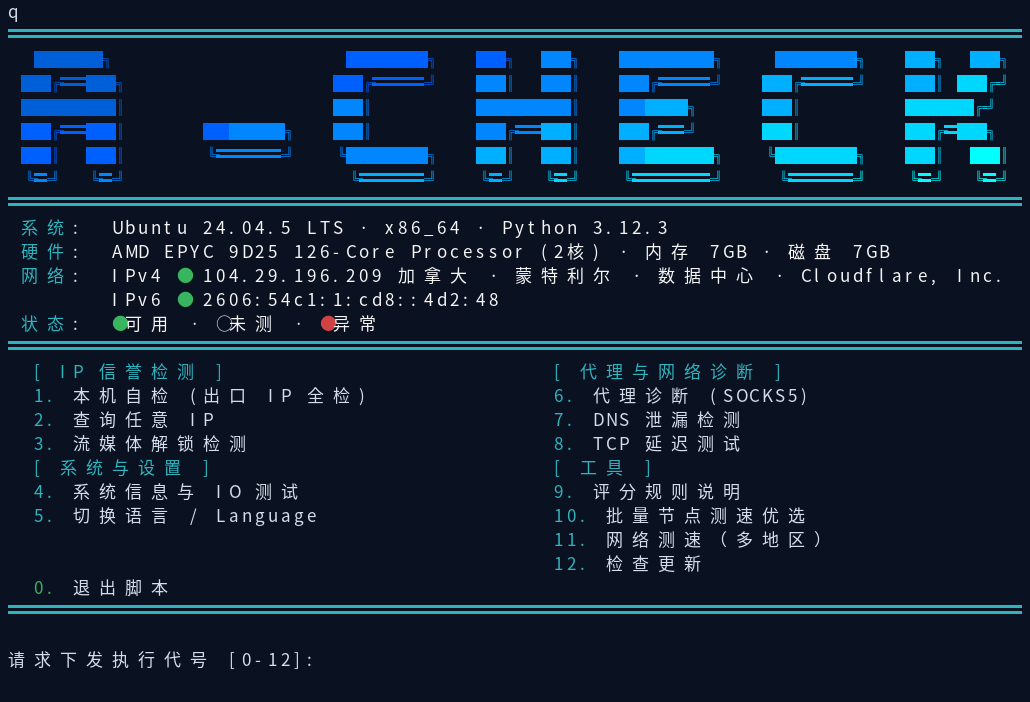
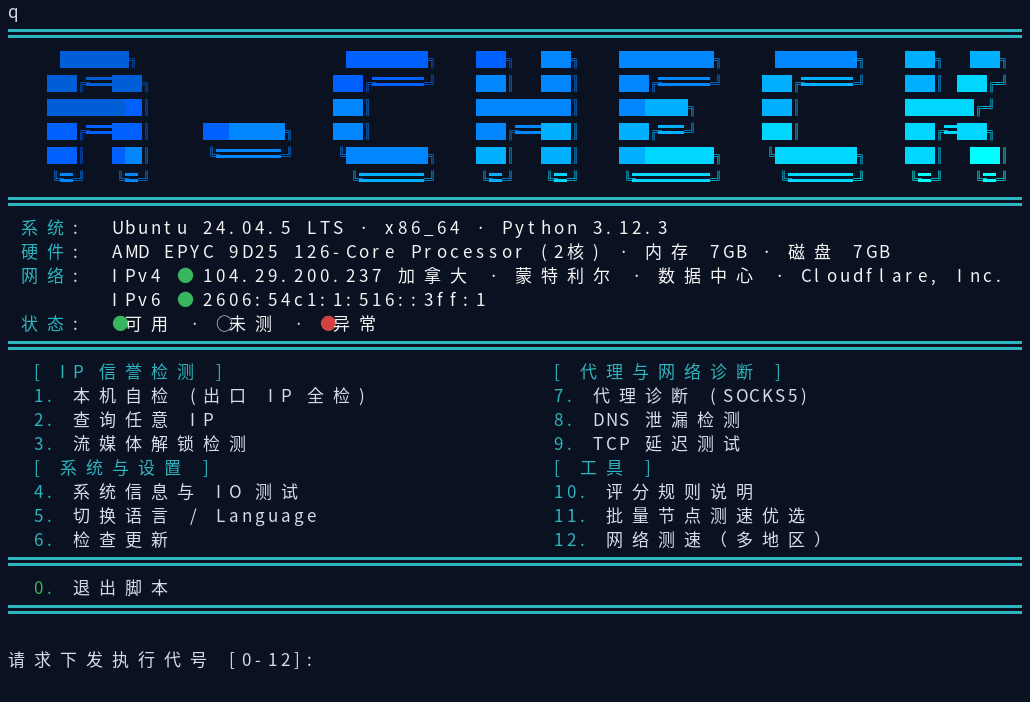
update

diff --git a/acheck.py b/acheck.py
@@ -1,6 +1,6 @@
 #!/usr/bin/env python3
 """
-IP 信誉检测 v4.12.7 — 全量修复与并发优化公开版 (零 API Key 依赖)
+IP 信誉检测 v4.12.8 — 全量修复与并发优化公开版 (零 API Key 依赖)
 
 被动模式: 仅凭 IP 地址做公开情报查询，不发起任何指向该 IP 的主动连接。
   适用: 评估尚未启用的候选 IP (如 AWS EIP)。
@@ -55,7 +55,7 @@ for _s in (sys.stdout, sys.stderr, sys.stdin):
     except Exception:
         pass
 
-VERSION = "4.12.7"
+VERSION = "4.12.8"
 
 
 def _init_console():
@@ -1968,7 +1968,7 @@ class IPInfo(Provider):
 
     def check(self, ip):
         ok, raw = http_get(f"https://ipinfo.io/{ip}/json",
-                           headers={"User-Agent": "A-Check/4.12.7 (+https://github.com/alariclin/A-Check)"},
+                           headers={"User-Agent": "A-Check/4.12.8 (+https://github.com/alariclin/A-Check)"},
                            use_cache=False)
         if not ok:
             return {"ok": False, "err": raw}
@@ -2300,7 +2300,7 @@ def _build_unified_profile(s):
 
 SCORING_RULES = {
     "zh": """
-评分规则 (v4.12.7 免 Key 公开版):
+评分规则 (v4.12.8 免 Key 公开版):
   [威胁行为 0-100] 实际恶意行为证据
     StopForumSpam 垃圾举报命中 (每次+3, 上限25)
     SANS ISC 蜜罐攻击记录 (5 + count//5, 上限25)
@@ -2322,7 +2322,7 @@ SCORING_RULES = {
   [纯净度] = 100 - 综合 (本工具自有换算，非第三方评分)
 """,
     "zh-TW": """
-評分規則 (v4.12.7 免 Key 公開版):
+評分規則 (v4.12.8 免 Key 公開版):
   [威脅行為 0-100] 實際惡意行為證據
     StopForumSpam 垃圾舉報命中 (每次+3, 上限25)
     SANS ISC 蜜罐攻擊記錄 (5 + count//5, 上限25)
@@ -2344,7 +2344,7 @@ SCORING_RULES = {
   [純淨度] = 100 - 綜合 (本工具自有換算，非第三方評分)
 """,
     "en": """
-Scoring rules (v4.12.7 Keyless Public Edition):
+Scoring rules (v4.12.8 Keyless Public Edition):
   [Threat 0-100] Evidence of malicious behavior
     StopForumSpam abuse hits (+3 each, max 25)
     SANS ISC honeypot attacks (5 + count//5, max 25)
@@ -2366,7 +2366,7 @@ Scoring rules (v4.12.7 Keyless Public Edition):
   [Purity] = 100 - Combined (own conversion, not third-party)
 """,
     "ja": """
-スコアリングルール (v4.12.7 キー不要公開版):
+スコアリングルール (v4.12.8 キー不要公開版):
   [脅威行為 0-100] 悪意ある活動の証拠
     StopForumSpam スパム報告 (+3/件, 最大25)
     SANS ISC ハニーポット攻撃記録 (5 + count//5, 最大25)
@@ -2388,7 +2388,7 @@ Scoring rules (v4.12.7 Keyless Public Edition):
   [純度] = 100 - 総合 (独自換算)
 """,
     "ru": """
-Правила оценки (v4.12.7 Публичная версия без ключей):
+Правила оценки (v4.12.8 Публичная версия без ключей):
   [Угрозы 0-100] Доказательства вредоносной активности
     StopForumSpam жалобы (+3 за каждую, макс. 25)
     SANS ISC атаки (5 + count//5, макс. 25)
@@ -2410,7 +2410,7 @@ Scoring rules (v4.12.7 Keyless Public Edition):
   [Чистота] = 100 - Итого
 """,
     "fa": """
-قوانین امتیازدهی (نسخه عمومی بدون کلید v4.12.7):
+قوانین امتیازدهی (نسخه عمومی بدون کلید v4.12.8):
   [رفتار تهدید 0-100] شواهد فعالیت مخرب
     StopForumSpam گزارش اسپم (+3 هر مورد، حداکثر 25)
     SANS ISC حملات ثبتشده (5 + count//5، حداکثر 25)
@@ -3421,7 +3421,7 @@ def get_egress_ip():
     ]
     for url in sources:
         try:
-            _ua = {"User-Agent": "A-Check/4.12.7 (+https://github.com/alariclin/A-Check)"} if "ipinfo.io" in url else {"User-Agent": UA_BROWSER}
+            _ua = {"User-Agent": "A-Check/4.12.8 (+https://github.com/alariclin/A-Check)"} if "ipinfo.io" in url else {"User-Agent": UA_BROWSER}
             req = urllib.request.Request(url, headers=_ua)
             with urllib.request.urlopen(req, timeout=6) as r:
                 raw = r.read(512).decode("utf-8", errors="replace").strip()
@@ -5323,9 +5323,20 @@ def _logo_spread(lines, target=76):
     return out
 
 
+def _logo_shift_a(lines, n=2):
+    """首字母 A 单独右移 n 列 (从 A 后的间隔里扣, 总宽不变)。"""
+    out = []
+    for l in lines:
+        if len(l) > 8 + n:
+            out.append(" " * n + l[:8] + l[8 + n:])
+        else:
+            out.append(l)
+    return out
+
+
 def _logo_render():
     """给 Logo 上蓝->青对角渐变色 (256 色), 无色环境返回原文。"""
-    lines = _logo_spread(_LOGO_LINES)
+    lines = _logo_shift_a(_logo_spread(_LOGO_LINES))
     if not _use_color():
         return lines
     out = []
@@ -5512,24 +5523,24 @@ def print_menu():
     colw = 40
     rows = [
         (_c(C.cyan, T("grp_ip")), _c(C.cyan, T("grp_net"))),
-        (_menu_item(1, T("m_self")), _menu_item(6, T("m_proxy"))),
-        (_menu_item(2, T("m_query")), _menu_item(7, T("m_dnsleak"))),
-        (_menu_item(3, T("m_stream")), _menu_item(8, T("m_tcpping"))),
+        (_menu_item(1, T("m_self")), _menu_item(7, T("m_proxy"))),
+        (_menu_item(2, T("m_query")), _menu_item(8, T("m_dnsleak"))),
+        (_menu_item(3, T("m_stream")), _menu_item(9, T("m_tcpping"))),
         (_c(C.cyan, T("grp_sys")), _c(C.cyan, T("grp_tools"))),
-        (_menu_item(4, T("m_sysinfo")), _menu_item(9, T("m_explain"))),
-        (_menu_item(5, T("m_lang")), _menu_item(10, T("m_batch"))),
-        ("", _menu_item(11, T("m_speed"))),
-        ("", _menu_item(12, T("m_update"))),
+        (_menu_item(4, T("m_sysinfo")), _menu_item(10, T("m_explain"))),
+        (_menu_item(5, T("m_lang")), _menu_item(11, T("m_batch"))),
+        (_menu_item(6, T("m_update")), _menu_item(12, T("m_speed"))),
     ]
     for left, right in rows:
         print("  " + _pad(left, colw) + right)
+    print(_c(C.cyan, "═" * 78))
     print("  " + _c(C.green, "0.") + " " + T("m_quit"))
     print(_c(C.cyan, "═" * 78))
     print()
 
 
 def check_update():
-    """菜单 12: 对比 GitHub 最新 Release 与本地版本。"""
+    """菜单 6: 对比 GitHub 最新 Release 与本地版本。"""
     try:
         req = urllib.request.Request(
             "https://api.github.com/repos/alariclin/A-Check/releases/latest",
@@ -5873,23 +5884,23 @@ def main():
                 si = get_system_info()
                 io_res = disk_io_test()
                 print_system_info(si, io_res)
-            elif choice == "9":
-                print(SCORING_RULES.get(LANG, SCORING_RULES["en"]))
             elif choice == "10":
-                print()
-                run_batch_nodes()
+                print(SCORING_RULES.get(LANG, SCORING_RULES["en"]))
             elif choice == "11":
                 print()
-                run_speed_only()
+                run_batch_nodes()
             elif choice == "12":
                 print()
+                run_speed_only()
+            elif choice == "6":
+                print()
                 check_update()
-            elif choice == "7":
+            elif choice == "8":
                 print()
                 run_dnsleak_only()
-            elif choice == "8":
+            elif choice == "9":
                 run_tcpping_only()
-            elif choice == "6":
+            elif choice == "7":
                 # 代理诊断: 输入 host:port [+认证]
                 while True:
                     pinp = input(T("prompt_proxy")).strip()

diff --git a/README.fa.md b/README.fa.md
@@ -5,7 +5,7 @@
 <p align="center">اعتبار IP · عیبیابی پروکسی · انتخاب دستهای گرهها — ابزار تکفایلی پایتون</p>
 
 <p align="center">
-  <img src="https://img.shields.io/badge/release-v4.12.7-1f883d" alt="release">
+  <img src="https://img.shields.io/badge/release-v4.12.8-1f883d" alt="release">
   <img src="https://img.shields.io/badge/python-3.8%2B-3776ab" alt="python">
   <img src="https://img.shields.io/badge/platform-macOS%20%7C%20Windows%20%7C%20Linux-8250df" alt="platform">
   <img src="https://img.shields.io/badge/license-MIT-d7781e" alt="license">
@@ -56,7 +56,7 @@ python3 acheck.py 8.8.8.8     # استعلام هر IP عمومی
 python3 acheck.py --active    # خودآزمایی
 ```
 
-بستههای macOS / Windows / Linux در صفحه [Releases](https://github.com/alariclin/A-Check/releases) هستند (`A-Check-v4.12.7-mac.zip` / `A-Check-v4.12.7-windows.zip` / `A-Check-v4.12.7-linux.zip`) — از حالت فشرده خارج کنید و `run.command` / `run.bat` / `run.sh` را اجرا کنید.
+بستههای macOS / Windows / Linux در صفحه [Releases](https://github.com/alariclin/A-Check/releases) هستند (`A-Check-v4.12.8-mac.zip` / `A-Check-v4.12.8-windows.zip` / `A-Check-v4.12.8-linux.zip`) — از حالت فشرده خارج کنید و `run.command` / `run.bat` / `run.sh` را اجرا کنید.
 
 ## روش استفاده
 

diff --git a/README.ru.md b/README.ru.md
@@ -5,7 +5,7 @@
 <p align="center">Репутация IP · диагностика прокси · пакетный выбор узлов — однофайловый чекер на Python</p>
 
 <p align="center">
-  <img src="https://img.shields.io/badge/release-v4.12.7-1f883d" alt="release">
+  <img src="https://img.shields.io/badge/release-v4.12.8-1f883d" alt="release">
   <img src="https://img.shields.io/badge/python-3.8%2B-3776ab" alt="python">
   <img src="https://img.shields.io/badge/platform-macOS%20%7C%20Windows%20%7C%20Linux-8250df" alt="platform">
   <img src="https://img.shields.io/badge/license-MIT-d7781e" alt="license">
@@ -56,7 +56,7 @@ python3 acheck.py 8.8.8.8     # запрос любого публичного I
 python3 acheck.py --active    # самопроверка
 ```
 
-Пакеты для macOS / Windows / Linux — на странице [Releases](https://github.com/alariclin/A-Check/releases) (`A-Check-v4.12.7-mac.zip` / `A-Check-v4.12.7-windows.zip` / `A-Check-v4.12.7-linux.zip`): распаковать и запустить `run.command` / `run.bat` / `run.sh`.
+Пакеты для macOS / Windows / Linux — на странице [Releases](https://github.com/alariclin/A-Check/releases) (`A-Check-v4.12.8-mac.zip` / `A-Check-v4.12.8-windows.zip` / `A-Check-v4.12.8-linux.zip`): распаковать и запустить `run.command` / `run.bat` / `run.sh`.
 
 ## Использование
 

diff --git a/README.ja.md b/README.ja.md
@@ -5,7 +5,7 @@
 <p align="center">IPレピュテーション · プロキシ診断 · ノード一括選別 — 単一ファイルのPythonチェッカー</p>
 
 <p align="center">
-  <img src="https://img.shields.io/badge/release-v4.12.7-1f883d" alt="release">
+  <img src="https://img.shields.io/badge/release-v4.12.8-1f883d" alt="release">
   <img src="https://img.shields.io/badge/python-3.8%2B-3776ab" alt="python">
   <img src="https://img.shields.io/badge/platform-macOS%20%7C%20Windows%20%7C%20Linux-8250df" alt="platform">
   <img src="https://img.shields.io/badge/license-MIT-d7781e" alt="license">
@@ -56,7 +56,7 @@ python3 acheck.py 8.8.8.8     # 任意のIPを照会
 python3 acheck.py --active    # セルフチェック
 ```
 
-macOS / Windows / Linux 用パッケージは [Releases](https://github.com/alariclin/A-Check/releases) ページ（`A-Check-v4.12.7-mac.zip` / `A-Check-v4.12.7-windows.zip` / `A-Check-v4.12.7-linux.zip`）から。解凍して `run.command` / `run.bat` / `run.sh` を実行してください。
+macOS / Windows / Linux 用パッケージは [Releases](https://github.com/alariclin/A-Check/releases) ページ（`A-Check-v4.12.8-mac.zip` / `A-Check-v4.12.8-windows.zip` / `A-Check-v4.12.8-linux.zip`）から。解凍して `run.command` / `run.bat` / `run.sh` を実行してください。
 
 ## 使い方
 

diff --git a/README.zh-TW.md b/README.zh-TW.md
@@ -5,7 +5,7 @@
 <p align="center">IP 純淨度 · 代理診斷 · 批量節點優選 — 純 Python 單文件檢測工具</p>
 
 <p align="center">
-  <img src="https://img.shields.io/badge/release-v4.12.7-1f883d" alt="release">
+  <img src="https://img.shields.io/badge/release-v4.12.8-1f883d" alt="release">
   <img src="https://img.shields.io/badge/python-3.8%2B-3776ab" alt="python">
   <img src="https://img.shields.io/badge/platform-macOS%20%7C%20Windows%20%7C%20Linux-8250df" alt="platform">
   <img src="https://img.shields.io/badge/license-MIT-d7781e" alt="license">
@@ -56,7 +56,7 @@ python3 acheck.py 8.8.8.8     # 查任意公網 IP
 python3 acheck.py --active    # 本機自檢
 ```
 
-macOS / Windows / Linux 安裝包在 [Releases](https://github.com/alariclin/A-Check/releases) 頁下載（`A-Check-v4.12.7-mac.zip` / `A-Check-v4.12.7-windows.zip` / `A-Check-v4.12.7-linux.zip`），解壓後運行 `run.command` / `run.bat` / `run.sh` 即可。
+macOS / Windows / Linux 安裝包在 [Releases](https://github.com/alariclin/A-Check/releases) 頁下載（`A-Check-v4.12.8-mac.zip` / `A-Check-v4.12.8-windows.zip` / `A-Check-v4.12.8-linux.zip`），解壓後運行 `run.command` / `run.bat` / `run.sh` 即可。
 
 ## 使用方法
 

diff --git a/README.zh.md b/README.zh.md
@@ -5,7 +5,7 @@
 <p align="center">IP 纯净度 · 代理诊断 · 批量节点优选 — 纯 Python 单文件检测工具</p>
 
 <p align="center">
-  <img src="https://img.shields.io/badge/release-v4.12.7-1f883d" alt="release">
+  <img src="https://img.shields.io/badge/release-v4.12.8-1f883d" alt="release">
   <img src="https://img.shields.io/badge/python-3.8%2B-3776ab" alt="python">
   <img src="https://img.shields.io/badge/platform-macOS%20%7C%20Windows%20%7C%20Linux-8250df" alt="platform">
   <img src="https://img.shields.io/badge/license-MIT-d7781e" alt="license">
@@ -56,7 +56,7 @@ python3 acheck.py 8.8.8.8     # 查任意公网 IP
 python3 acheck.py --active    # 本机自检
 ```
 
-macOS / Windows / Linux 安装包在 [Releases](https://github.com/alariclin/A-Check/releases) 页下载（`A-Check-v4.12.7-mac.zip` / `A-Check-v4.12.7-windows.zip` / `A-Check-v4.12.7-linux.zip`），解压后运行 `run.command` / `run.bat` / `run.sh` 即可。
+macOS / Windows / Linux 安装包在 [Releases](https://github.com/alariclin/A-Check/releases) 页下载（`A-Check-v4.12.8-mac.zip` / `A-Check-v4.12.8-windows.zip` / `A-Check-v4.12.8-linux.zip`），解压后运行 `run.command` / `run.bat` / `run.sh` 即可。
 
 ## 使用方法
 

diff --git a/README.en.md b/README.en.md
@@ -5,7 +5,7 @@
 <p align="center">IP reputation · proxy diagnostics · batch node picking — a single-file Python checker</p>
 
 <p align="center">
-  <img src="https://img.shields.io/badge/release-v4.12.7-1f883d" alt="release">
+  <img src="https://img.shields.io/badge/release-v4.12.8-1f883d" alt="release">
   <img src="https://img.shields.io/badge/python-3.8%2B-3776ab" alt="python">
   <img src="https://img.shields.io/badge/platform-macOS%20%7C%20Windows%20%7C%20Linux-8250df" alt="platform">
   <img src="https://img.shields.io/badge/license-MIT-d7781e" alt="license">
@@ -56,7 +56,7 @@ python3 acheck.py 8.8.8.8     # query any public IP
 python3 acheck.py --active    # self-check
 ```
 
-Packages for macOS / Windows / Linux are on the [Releases](https://github.com/alariclin/A-Check/releases) page (`A-Check-v4.12.7-mac.zip` / `A-Check-v4.12.7-windows.zip` / `A-Check-v4.12.7-linux.zip`) — unzip and run `run.command` / `run.bat` / `run.sh`.
+Packages for macOS / Windows / Linux are on the [Releases](https://github.com/alariclin/A-Check/releases) page (`A-Check-v4.12.8-mac.zip` / `A-Check-v4.12.8-windows.zip` / `A-Check-v4.12.8-linux.zip`) — unzip and run `run.command` / `run.bat` / `run.sh`.
 
 ## Usage
 

diff --git a/README.md b/README.md
@@ -5,7 +5,7 @@
 <p align="center">IP reputation · proxy diagnostics · batch node picking — a single-file Python checker</p>
 
 <p align="center">
-  <img src="https://img.shields.io/badge/release-v4.12.7-1f883d" alt="release">
+  <img src="https://img.shields.io/badge/release-v4.12.8-1f883d" alt="release">
   <img src="https://img.shields.io/badge/python-3.8%2B-3776ab" alt="python">
   <img src="https://img.shields.io/badge/platform-macOS%20%7C%20Windows%20%7C%20Linux-8250df" alt="platform">
   <img src="https://img.shields.io/badge/license-MIT-d7781e" alt="license">
@@ -56,7 +56,7 @@ python3 acheck.py 8.8.8.8     # query any public IP
 python3 acheck.py --active    # self-check
 ```
 
-Packages for macOS / Windows / Linux are on the [Releases](https://github.com/alariclin/A-Check/releases) page (`A-Check-v4.12.7-mac.zip` / `A-Check-v4.12.7-windows.zip` / `A-Check-v4.12.7-linux.zip`) — unzip and run `run.command` / `run.bat` / `run.sh`.
+Packages for macOS / Windows / Linux are on the [Releases](https://github.com/alariclin/A-Check/releases) page (`A-Check-v4.12.8-mac.zip` / `A-Check-v4.12.8-windows.zip` / `A-Check-v4.12.8-linux.zip`) — unzip and run `run.command` / `run.bat` / `run.sh`.
 
 ## Usage
 
